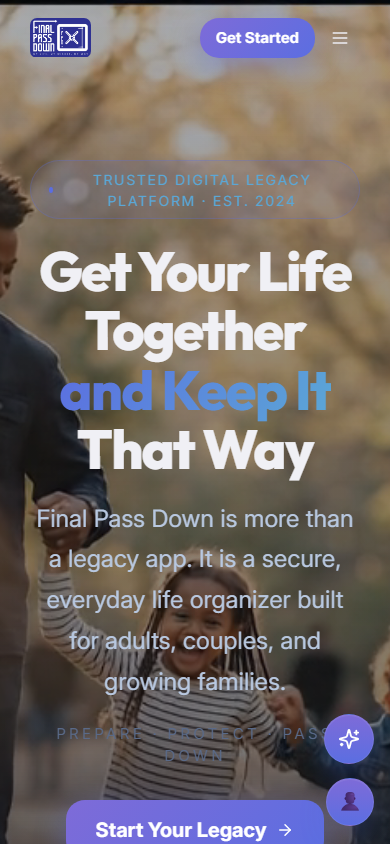
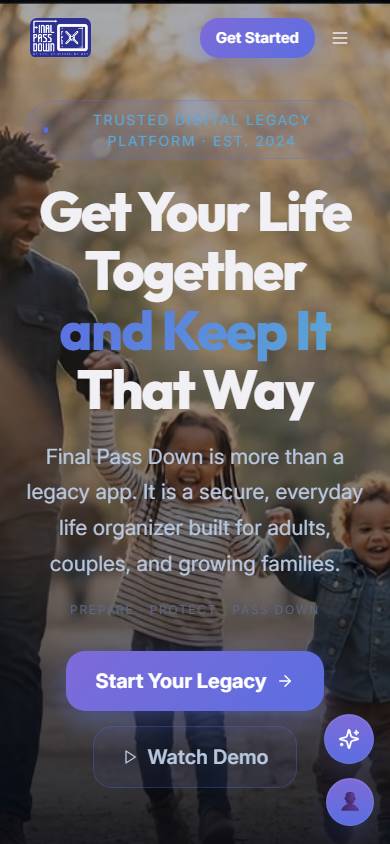
Fix the landing hero and section rhythm on phones
The hero was a full 100vh band with 128px of internal padding, so on a
390px screen both calls to action fell below the fold and left roughly
300px of dead photo beneath them. It now sizes to its content below
640px, and uses dvh above that so the mobile address bar cannot clip it.

PREPARE · PROTECT · PASS DOWN was set at 15px with 0.22em tracking, which
wrapped onto a second line that then sat behind the floating action
buttons. It is smaller and tighter on phones and now fits one line.

The sixteen py-28 section bands and the hero sub-headline were fixed
values tuned for a desktop; both now scale down below 640px. Landing page
height at 390px drops from 4360px to 3899px with nothing removed.

Sizes that vary with viewport had to move out of the inline style objects
into a scoped LANDING_CSS block, since an inline value outranks a media
query. The AI launcher and its chat panel now clear the home indicator.

Install-dialog screenshots regenerated - the old narrow one had the
broken tagline baked into it.

Verified at 375/390/430/768/1440px: no horizontal overflow on the
landing, login or signup routes, desktop rendering unchanged, and the
36-page portal plus manifest/service-worker checks still clean.

diff --git a/src/app/components/LandingPage.tsx b/src/app/components/LandingPage.tsx
@@ -118,7 +118,7 @@ function PageBanner({ poster, tone = "blue", overlay = 0.55, kicker, title, sub,
   return (
     <header className="relative flex items-center justify-center" style={{ minHeight }}>
       <MediaBackdrop poster={poster} tone={tone} overlay={overlay} />
-      <div className="relative max-w-4xl mx-auto w-full px-6 py-28 text-center flex flex-col items-center">
+      <div className="relative max-w-4xl mx-auto w-full px-6 py-16 sm:py-28 text-center flex flex-col items-center">
         <Kicker tone={kickerTone} className="fpd-seq" style={seq(0)}>{kicker}</Kicker>
         <h1 className="fpd-seq" style={{ ...DISPLAY, fontSize: "clamp(2.5rem,5.3vw,4rem)", fontWeight: 700, color: TEXT, margin: "18px 0 14px", lineHeight: 1.12, letterSpacing: "-0.02em", maxWidth: 820, ...seq(1) }}>{title}</h1>
         {sub && <p className="fpd-seq" style={{ color: MUTED, fontSize: 21.5, maxWidth: 620, lineHeight: 1.7, ...seq(2) }}>{sub}</p>}
@@ -203,12 +203,31 @@ function TopNav({ onStart, page, onNavigate }: { onStart: () => void; page: stri
   );
 }
 
+/* Landing-page mobile rules.
+   This page is styled with Tailwind utilities plus inline style objects. An
+   inline value outranks a media query, so anything that has to change with
+   viewport width lives here and is kept OUT of the style objects. Scoped
+   under .fpd-landing so nothing else in the app is affected. */
+const LANDING_CSS = `
+.fpd-hero{min-height:100vh;min-height:100dvh;padding-top:env(safe-area-inset-top);}
+.fpd-hero-tag{font-size:15px;letter-spacing:0.22em;}
+
+@media (max-width:640px){
+  /* The hero photo is the point on desktop; on a phone a full-viewport band
+     pushed the CTA under the fold and left a dead strip below it. */
+  .fpd-hero{min-height:auto;}
+  /* 15px at 0.22em tracking wrapped onto a second line that then sat behind
+     the floating action buttons. */
+  .fpd-hero-tag{font-size:12px;letter-spacing:0.14em;}
+}
+`;
+
 /* ── HERO ─────────────────────────────────────────────────────── */
 function Hero({ onStart, onNavigate }: { onStart: () => void; onNavigate: (id: string) => void }) {
   return (
-    <header className="relative flex items-center" style={{ minHeight: "100vh" }}>
+    <header className="fpd-hero relative flex items-center">
       <MediaBackdrop src="/media/hero.mp4" tone="warm" overlay={0.5} eager />
-      <div className="relative max-w-6xl mx-auto w-full px-6 py-32 text-center flex flex-col items-center">
+      <div className="relative max-w-6xl mx-auto w-full px-5 sm:px-6 py-20 sm:py-32 text-center flex flex-col items-center">
         <div className="flex flex-col items-center">
           <Kicker className="fpd-seq" style={seq(0)}>Trusted Digital Legacy Platform · Est. 2024</Kicker>
           <h1 className="fpd-seq" style={{ ...DISPLAY, fontSize: "clamp(2.75rem,6.5vw,5rem)", fontWeight: 800, lineHeight: 1.08, letterSpacing: "-0.03em", color: TEXT, margin: "22px 0 20px", ...seq(1) }}>
@@ -217,11 +236,11 @@ function Hero({ onStart, onNavigate }: { onStart: () => void; onNavigate: (id: s
             <span style={{ background: `linear-gradient(120deg,${ACCENT},${HILITE})`, WebkitBackgroundClip: "text", WebkitTextFillColor: "transparent", backgroundClip: "text", whiteSpace: "nowrap" }}>and Keep It</span>
             <br />That Way
           </h1>
-          <p className="fpd-seq" style={{ color: SOFT, fontSize: 24, lineHeight: 1.7, maxWidth: 640, marginBottom: 20, ...seq(2) }}>
+          <p className="fpd-seq" style={{ color: SOFT, fontSize: "clamp(1.05rem,3.6vw,1.5rem)", lineHeight: 1.7, maxWidth: 640, marginBottom: 20, ...seq(2) }}>
             Final Pass Down is more than a legacy app. It is a secure, everyday life organizer built for adults, couples, and growing families.
           </p>
-          <p className="fpd-seq" style={{ color: FAINT, fontSize: 15, letterSpacing: "0.22em", ...MONO, marginBottom: 32, ...seq(3) }}>PREPARE · PROTECT · PASS DOWN</p>
-          <div className="fpd-seq flex flex-wrap items-center justify-center gap-3.5 mb-16" style={seq(4)}>
+          <p className="fpd-seq fpd-hero-tag" style={{ color: FAINT, ...MONO, marginBottom: 32, ...seq(3) }}>PREPARE · PROTECT · PASS DOWN</p>
+          <div className="fpd-seq flex flex-wrap items-center justify-center gap-3 sm:gap-3.5 mb-6 sm:mb-16" style={seq(4)}>
             <PrimaryBtn onClick={onStart} large>Start Your Legacy <ArrowRight size={18} /></PrimaryBtn>
             <GhostBtn onClick={() => onNavigate("how-it-works")} large><Play size={16} /> Watch Demo</GhostBtn>
           </div>
@@ -245,7 +264,7 @@ function About({ onStart }: { onStart: () => void }) {
       <PageBanner poster="/media/about-bg.jpg" tone="deep" overlay={0.6}
         kicker="Our Story" title={<>Built So Nothing<br />Important Is Ever Lost</>}
         sub="Final Pass Down exists because too many families are left piecing together a lifetime of details when it matters most." />
-      <section id="about" className="relative py-28 px-6">
+      <section id="about" className="relative py-16 sm:py-28 px-6">
       <div className="max-w-6xl mx-auto grid lg:grid-cols-2 gap-12 lg:gap-16 items-center">
         <div>
           <Kicker className="fpd-seq" style={seq(0)}>About Final Pass Down</Kicker>
@@ -297,7 +316,7 @@ function HowItWorks() {
     <PageBanner poster="/media/how-it-works-bg.jpg" tone="blue" overlay={0.6}
       kicker="How it works" title={<>Four Steps to a<br />Secure Legacy</>}
       sub="Getting started takes less than 10 minutes. Your family will thank you forever." />
-    <section id="how-it-works" className="relative py-28 px-6" style={{ background: "linear-gradient(180deg,#070A12,#0A1020,#070A12)" }}>
+    <section id="how-it-works" className="relative py-16 sm:py-28 px-6" style={{ background: "linear-gradient(180deg,#070A12,#0A1020,#070A12)" }}>
       <div className="max-w-7xl mx-auto">
         <div className="grid md:grid-cols-4 gap-5 fpd-stagger">
           {STEPS.map(s => (
@@ -324,7 +343,7 @@ function ContactsStory({ onNavigate }: { onNavigate: (id: string) => void }) {
     "Every contact verifies their identity with government-issued ID",
   ];
   return (
-    <section id="trusted-contacts" className="relative py-28 px-6">
+    <section id="trusted-contacts" className="relative py-16 sm:py-28 px-6">
       <div className="max-w-6xl mx-auto grid lg:grid-cols-2 gap-12 lg:gap-16 items-center">
         <div className="relative rounded-3xl overflow-hidden order-2 lg:order-1" style={{ aspectRatio: "4 / 3", border: "1px solid rgba(91,110,225,0.2)", boxShadow: "0 20px 60px rgba(0,0,0,0.4)" }}>
           <MediaBackdrop src="/media/story-contacts.mp4" tone="blue" overlay={0.35} showPlay />
@@ -403,7 +422,7 @@ function Features() {
     <PageBanner poster="/media/features-bg.jpg" tone="warm" overlay={0.6}
       kicker="Platform features" title={<>Everything Your<br />Legacy Needs</>}
       sub="From legal documents to family memories, all in one secure encrypted vault." />
-    <section id="features" className="relative py-28 px-6">
+    <section id="features" className="relative py-16 sm:py-28 px-6">
       <div className="max-w-6xl mx-auto">
         <div className="grid sm:grid-cols-2 lg:grid-cols-3 gap-5 fpd-stagger">
           {highlighted.map(f => (
@@ -441,7 +460,7 @@ function FamilyPetsStory({ onStart }: { onStart: () => void }) {
     "Nothing about the ones who depend on you gets left to memory",
   ];
   return (
-    <section id="family-pets" className="relative py-28 px-6">
+    <section id="family-pets" className="relative py-16 sm:py-28 px-6">
       <div className="max-w-6xl mx-auto grid lg:grid-cols-2 gap-12 lg:gap-16 items-center">
         <div>
           <Kicker className="fpd-seq" style={seq(0)}>Kids & Pet Care</Kicker>
@@ -479,7 +498,7 @@ function MemoriesStory({ onStart }: { onStart: () => void }) {
     "Every memory stays private until you decide it's time to share",
   ];
   return (
-    <section id="memories" className="relative py-28 px-6">
+    <section id="memories" className="relative py-16 sm:py-28 px-6">
       <div className="max-w-6xl mx-auto grid lg:grid-cols-2 gap-12 lg:gap-16 items-center">
         <div>
           <Kicker className="fpd-seq" style={seq(0)}>Memories & Messages</Kicker>
@@ -528,7 +547,7 @@ function Security() {
     <PageBanner poster="/media/security-bg.jpg" tone="deep" overlay={0.6}
       kicker="Enterprise-grade security" title={<>Your Data is<br />Fortress-Protected</>}
       sub="We built Final Pass Down with the same security standards used by banks and defense contractors." />
-    <section id="security" className="relative py-28 px-6" style={{ background: "linear-gradient(180deg,#070A12,#0A1020,#070A12)" }}>
+    <section id="security" className="relative py-16 sm:py-28 px-6" style={{ background: "linear-gradient(180deg,#070A12,#0A1020,#070A12)" }}>
       <div className="max-w-6xl mx-auto">
         <div className="grid md:grid-cols-2 lg:grid-cols-3 gap-5 mb-12 fpd-stagger">
           {SEC_ITEMS.map(item => (
@@ -565,7 +584,7 @@ function FamilyStory({ onStart }: { onStart: () => void }) {
     "Your family grieves with guidance, not uncertainty",
   ];
   return (
-    <section id="family-story" className="relative py-28 px-6">
+    <section id="family-story" className="relative py-16 sm:py-28 px-6">
       <div className="max-w-6xl mx-auto grid lg:grid-cols-2 gap-12 lg:gap-16 items-center">
         <div className="relative rounded-3xl overflow-hidden order-2 lg:order-1" style={{ aspectRatio: "4 / 3", border: "1px solid rgba(91,110,225,0.2)", boxShadow: "0 20px 60px rgba(0,0,0,0.4)" }}>
           <MediaBackdrop src="/media/story-family.mp4" tone="deep" overlay={0.4} showPlay />
@@ -644,7 +663,7 @@ function Pricing({ onStart }: { onStart: () => void }) {
     <PageBanner poster="/media/pricing-bg.jpg" tone="deep" overlay={0.6}
       kicker="Simple pricing" title={<>Invest in Your<br />Family's Future</>}
       sub="All plans include metered GB storage. Unused monthly storage expires at billing reset. Overage billed at $0.50/GB (Starter) or $0.40/GB (all other plans)." />
-    <section id="pricing" className="relative py-28 px-6">
+    <section id="pricing" className="relative py-16 sm:py-28 px-6">
       <div className="max-w-7xl mx-auto">
         <div className="flex items-center justify-center gap-3 mb-12">
           <span style={{ color: MUTED, fontSize: 17.5 }}>Monthly</span>
@@ -761,7 +780,7 @@ function Affiliates({ onStart }: { onStart: () => void }) {
     <PageBanner poster="/media/affiliates-bg.jpg" tone="warm" overlay={0.6}
       kicker="Affiliate Program" title={<>Share It.<br />Everyone Wins.</>}
       sub="Earn a recurring commission every time someone you refer builds their vault with Final Pass Down." />
-    <section id="affiliates" className="relative py-28 px-6" style={{ background: "linear-gradient(180deg,#070A12,#0A1020,#070A12)" }}>
+    <section id="affiliates" className="relative py-16 sm:py-28 px-6" style={{ background: "linear-gradient(180deg,#070A12,#0A1020,#070A12)" }}>
       <div className="max-w-6xl mx-auto grid lg:grid-cols-2 gap-14 items-center">
         <div>
           <Kicker className="fpd-seq" style={seq(0)}>Affiliate Program</Kicker>
@@ -826,7 +845,7 @@ function Partnerships({ onStart }: { onStart: () => void }) {
     <PageBanner poster="/media/partners-bg.jpg" tone="blue" overlay={0.6}
       kicker="Strategic partnerships" title={<>Recurring <span style={{ color: "#6FAE8B" }}>Lifetime</span> Commissions</>}
       sub="Built for professionals who serve clients going through major life transitions. Refer once, earn forever." />
-    <section id="partners" className="relative py-28 px-6">
+    <section id="partners" className="relative py-16 sm:py-28 px-6">
       <div className="max-w-6xl mx-auto">
         <div className="grid md:grid-cols-3 gap-5 mb-12 fpd-stagger">
           {tiers.map(t => (
@@ -897,7 +916,7 @@ function WhiteGlove({ onStart }: { onStart: () => void }) {
       kicker="White Glove Concierge Service"
       title={<>Not Comfortable With Technology?<br /><span style={{ color: "#A98CC7" }}>We Do Everything For You.</span></>}
       sub="Final Pass Down's White Glove Concierge Service is for people who want their legacy protected but don't want to deal with apps, uploads, or anything technical. A real person calls you, listens to you, and handles everything — start to finish — over the phone." />
-    <section id="white-glove" className="relative py-28 px-6" style={{ background: "linear-gradient(180deg,#070A12,#0B0818,#070A12)" }}>
+    <section id="white-glove" className="relative py-16 sm:py-28 px-6" style={{ background: "linear-gradient(180deg,#070A12,#0B0818,#070A12)" }}>
       <div className="max-w-6xl mx-auto">
         {/* 4 steps */}
         <div className="grid md:grid-cols-2 lg:grid-cols-4 gap-5 mb-16 fpd-stagger">
@@ -1029,7 +1048,7 @@ function WhiteLabel({ onApply }: { onApply?: (tier: string) => void }) {
     <PageBanner poster="/media/white-label-bg.jpg" tone="blue" overlay={0.6}
       kicker="White label solutions" title={<>Launch Your Own<br />Legacy Platform</>}
       sub="License the full Final Pass Down platform under your brand. Pricing updates live when admin adjusts packages." />
-    <section id="white-label" className="relative py-28 px-6" style={{ background: "linear-gradient(180deg,#070A12,#0A1020,#070A12)" }}>
+    <section id="white-label" className="relative py-16 sm:py-28 px-6" style={{ background: "linear-gradient(180deg,#070A12,#0A1020,#070A12)" }}>
       <div className="max-w-6xl mx-auto">
         {active.length > 0 && (
           <div className="grid md:grid-cols-3 gap-6 mb-16 fpd-stagger">
@@ -1105,7 +1124,7 @@ function Help() {
     <PageBanner poster="/media/help-bg.jpg" tone="warm" overlay={0.6} minHeight="100vh"
       kicker="Get in touch" title={<>Contact Us</>}
       sub="Our team is available 7 days a week. Average response time: under 2 hours." />
-    <section id="help" className="relative py-28 px-6" style={{ background: "linear-gradient(180deg,#070A12,#0A1020,#070A12)" }}>
+    <section id="help" className="relative py-16 sm:py-28 px-6" style={{ background: "linear-gradient(180deg,#070A12,#0A1020,#070A12)" }}>
       <div className="max-w-3xl mx-auto">
         <div className="mb-16 p-8 rounded-2xl text-center glow-surface" style={{ background: CARD, border: "1px solid rgba(91,110,225,0.16)" }}>
           <div className="flex flex-wrap items-center justify-center gap-3.5">
@@ -1137,8 +1156,8 @@ function Help() {
 /* ── CTA ──────────────────────────────────────────────────────── */
 function CTA({ onStart }: { onStart: () => void }) {
   return (
-    <section className="relative py-28 px-6">
-      <div className="max-w-5xl mx-auto relative rounded-3xl overflow-hidden text-center px-6 py-20" style={{ border: "1px solid rgba(91,110,225,0.24)" }}>
+    <section className="relative py-16 sm:py-28 px-6">
+      <div className="max-w-5xl mx-auto relative rounded-3xl overflow-hidden text-center px-6 py-12 sm:py-20" style={{ border: "1px solid rgba(91,110,225,0.24)" }}>
         <MediaBackdrop src="/media/cta.mp4" tone="blue" overlay={0.6} />
         <div className="relative flex flex-col items-center">
           <img src={fpdFullLogo} alt="Final Pass Down — My Life, My Wishes, My Way" style={{ height: 76, width: 115, flexShrink: 0, borderRadius: 14, objectFit: "contain", marginBottom: 20, boxShadow: "0 0 60px rgba(91,110,225,0.3)" }} />
@@ -1250,7 +1269,8 @@ export function LandingPage({ onGetStarted, onAdminLogin, onPartnerPortal, onCon
     default: pageContent = <Hero onStart={onGetStarted} onNavigate={navigate} />; break;
   }
   return (
-    <div style={{ fontFamily: "var(--font-body)", background: BG, color: TEXT, overflowX: "hidden" }}>
+    <div className="fpd-landing" style={{ fontFamily: "var(--font-body)", background: BG, color: TEXT, overflowX: "hidden" }}>
+      <style>{LANDING_CSS}</style>
       <TopNav onStart={onGetStarted} page={page} onNavigate={navigate} />
       <main>
         <div key={page} className="fpd-stagger">

diff --git a/src/app/components/AIAgent.tsx b/src/app/components/AIAgent.tsx
@@ -377,8 +377,8 @@ const AI_CSS = `
 .fpd-ai .panel{position:relative;z-index:1;display:flex;flex-direction:column;overflow:hidden;background:linear-gradient(180deg,#0D1421 0%,#0A0F1A 100%);border:1px solid rgba(255,255,255,0.08);box-shadow:inset 0 1px 0 rgba(255,255,255,0.035),0 24px 60px -24px rgba(0,0,0,0.85);}
 .fpd-ai .panel.floating{position:fixed;bottom:96px;right:24px;z-index:50;width:400px;max-width:calc(100vw - 32px);max-height:calc(100vh - 116px);border-radius:16px;}
 @media (max-width:430px){
-  .fpd-ai .panel.floating{right:16px;left:16px;bottom:84px;width:auto;max-width:none;max-height:calc(100vh - 104px);}
-  .fpd-ai-launch{right:16px;bottom:80px;width:50px;height:50px;}
+  .fpd-ai .panel.floating{right:16px;left:16px;bottom:calc(84px + env(safe-area-inset-bottom));width:auto;max-width:none;max-height:calc(100dvh - 104px);}
+  .fpd-ai-launch{right:16px;bottom:calc(80px + env(safe-area-inset-bottom));width:50px;height:50px;}
 }
 
 /* header */
